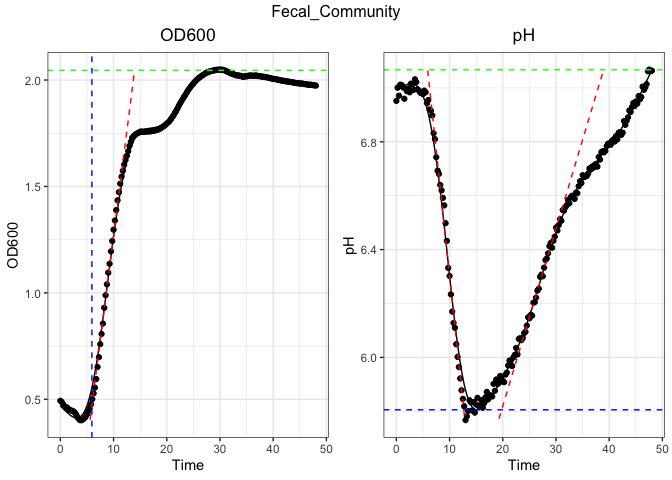
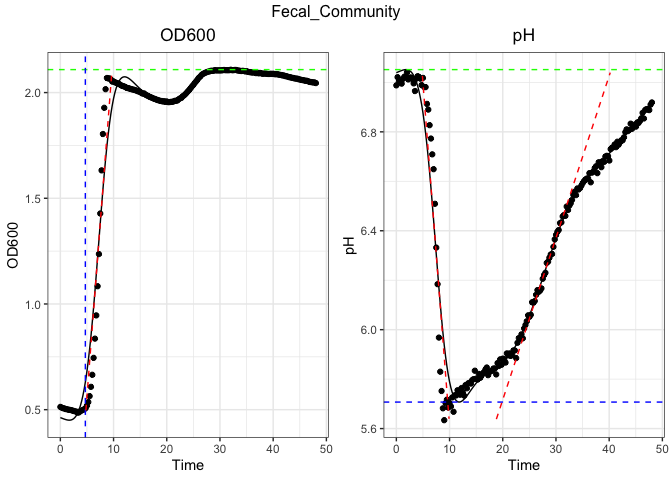
added grofit function to work with just OD600 data

diff --git a/README.md b/README.md
@@ -19,7 +19,7 @@ relationships between compounds.
 ## Installation
 
 ``` r
-devtools::install_gitlab("cbayne/phgrofit", 
+devtools::install_gitlab("vl32/phgrofit", 
                          auth_token = "Your auth token from gitlab",
                          host = "gitlab.kaleidobio.com")
 ```
@@ -265,3 +265,6 @@ DT::datatable(d2)
 11. dendrospect\_model(): Returns a data frame with the modeling data
     from phgrofit with the cluster that each Sample.ID would correspond
     to based on hierchical clustering of the data.
+
+12. grofit(): Extracts relevant physiological parameters for just OD600
+    by conducting spline interpolation.
